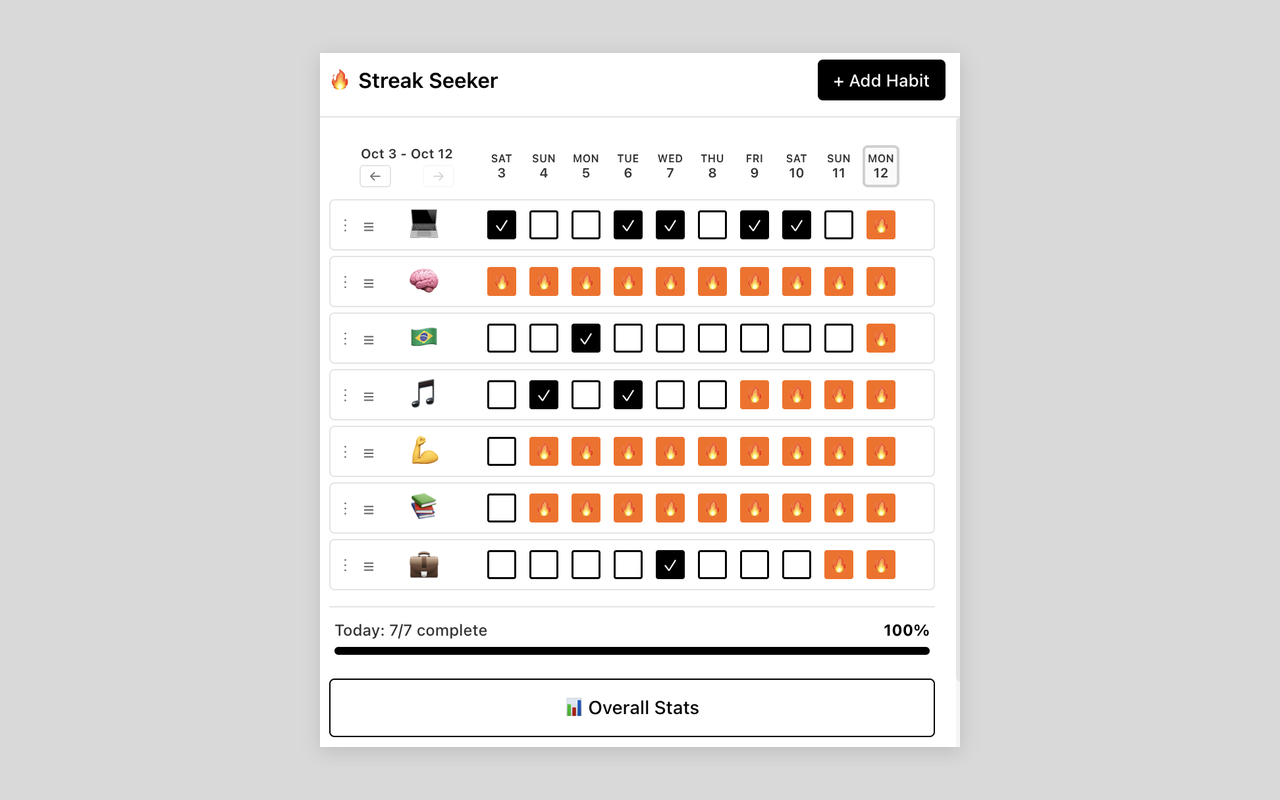
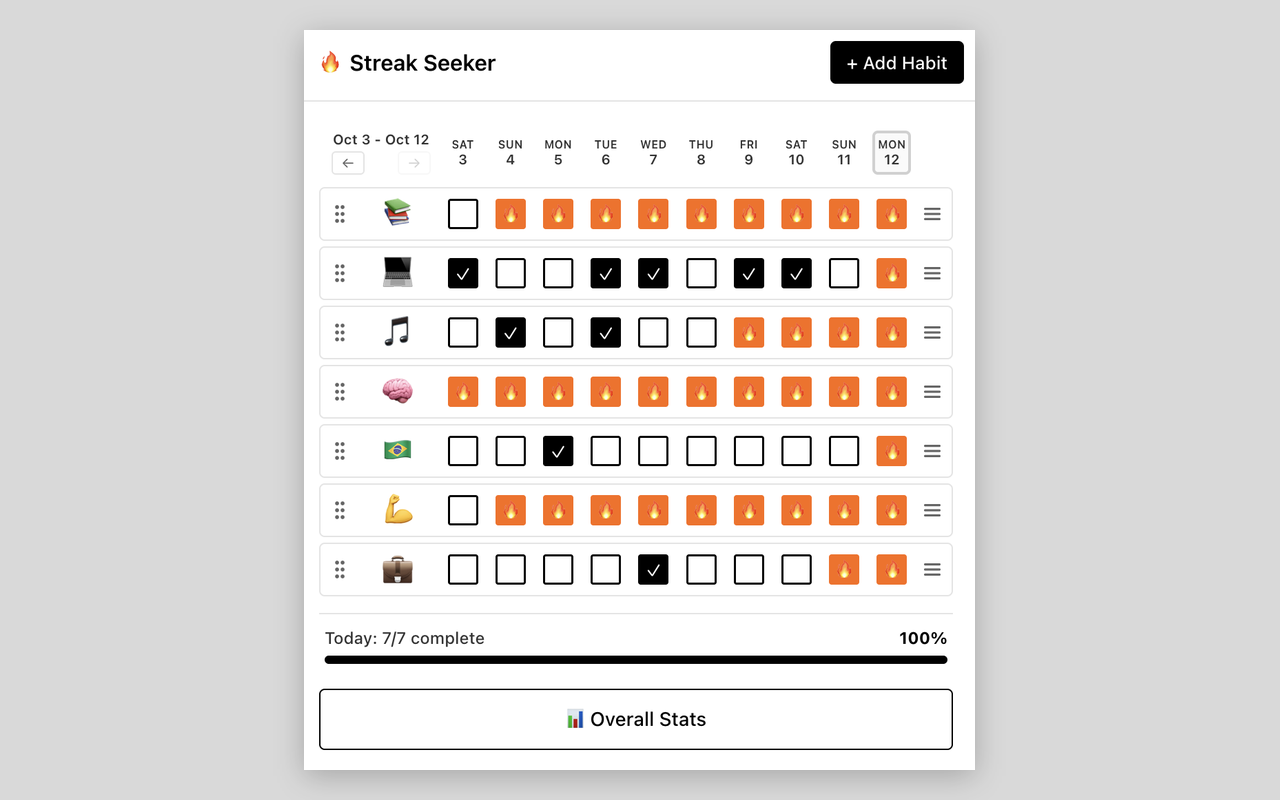
Run all hooks before the missing-habit guard in HabitRow and update main_view screenshot

Changed region(s): [[0.2188, 0.0312, 0.7812, 0.9688]]

diff --git a/src/components/HabitRow.jsx b/src/components/HabitRow.jsx
@@ -7,10 +7,11 @@ import ActionMenu from './ActionMenu';
 import './HabitRow.css';
 
 function HabitRow({ habit, dates, today, onToggle, onHabitClick, onEdit, onArchive, onUnarchive, onDelete }) {
-  if (!habit || !habit.id) return null;
-  
+  // All hooks run first; the missing-habit guard comes after them so the
+  // hook order never changes between renders.
   const [menuOpen, setMenuOpen] = useState(false);
-  const logs = getHabitLogs(habit.id);
+  const habitId = habit?.id;
+  const logs = habitId ? getHabitLogs(habitId) : {};
   const currentStreak = calculateCurrentStreak(logs);
 
   const {
@@ -20,7 +21,9 @@ function HabitRow({ habit, dates, today, onToggle, onHabitClick, onEdit, onArchi
     transform,
     transition,
     isDragging,
-  } = useSortable({ id: habit.id });
+  } = useSortable({ id: habitId });
+
+  if (!habit || !habitId) return null;
 
   const style = {
     transform: CSS.Transform.toString(transform),
